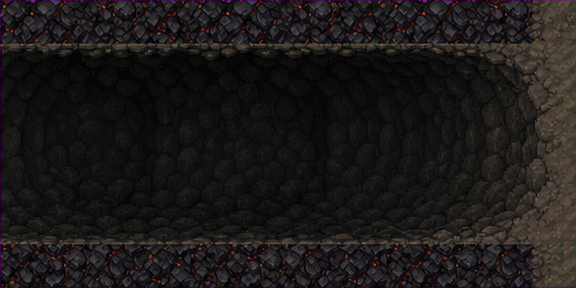
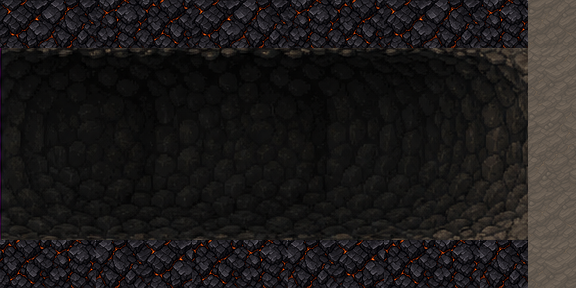
fix: restore exact atlas tiles in tunnel image

Changed region(s): [[0.0, 0.0, 1.0, 1.0]]

diff --git a/src/scenes/GameScene.ts b/src/scenes/GameScene.ts
@@ -24,7 +24,7 @@ import { atlasFrameForTile, backwallFrameForTile, tileKey, worldToTile } from '.
 type CursorKeys = Phaser.Types.Input.Keyboard.CursorKeys;
 type Facing = 'east' | 'west';
 
-const GENERATED_ASSET_VERSION = 'framed-12x6-tunnel-20260501-2207';
+const GENERATED_ASSET_VERSION = 'exact-atlas-12x6-tunnel-20260501-2218';
 const START_TUNNEL_LEFT_TILE = -10;
 const START_TUNNEL_TOP_TILE = -2;
 const START_TUNNEL_WIDTH_TILES = 12;
